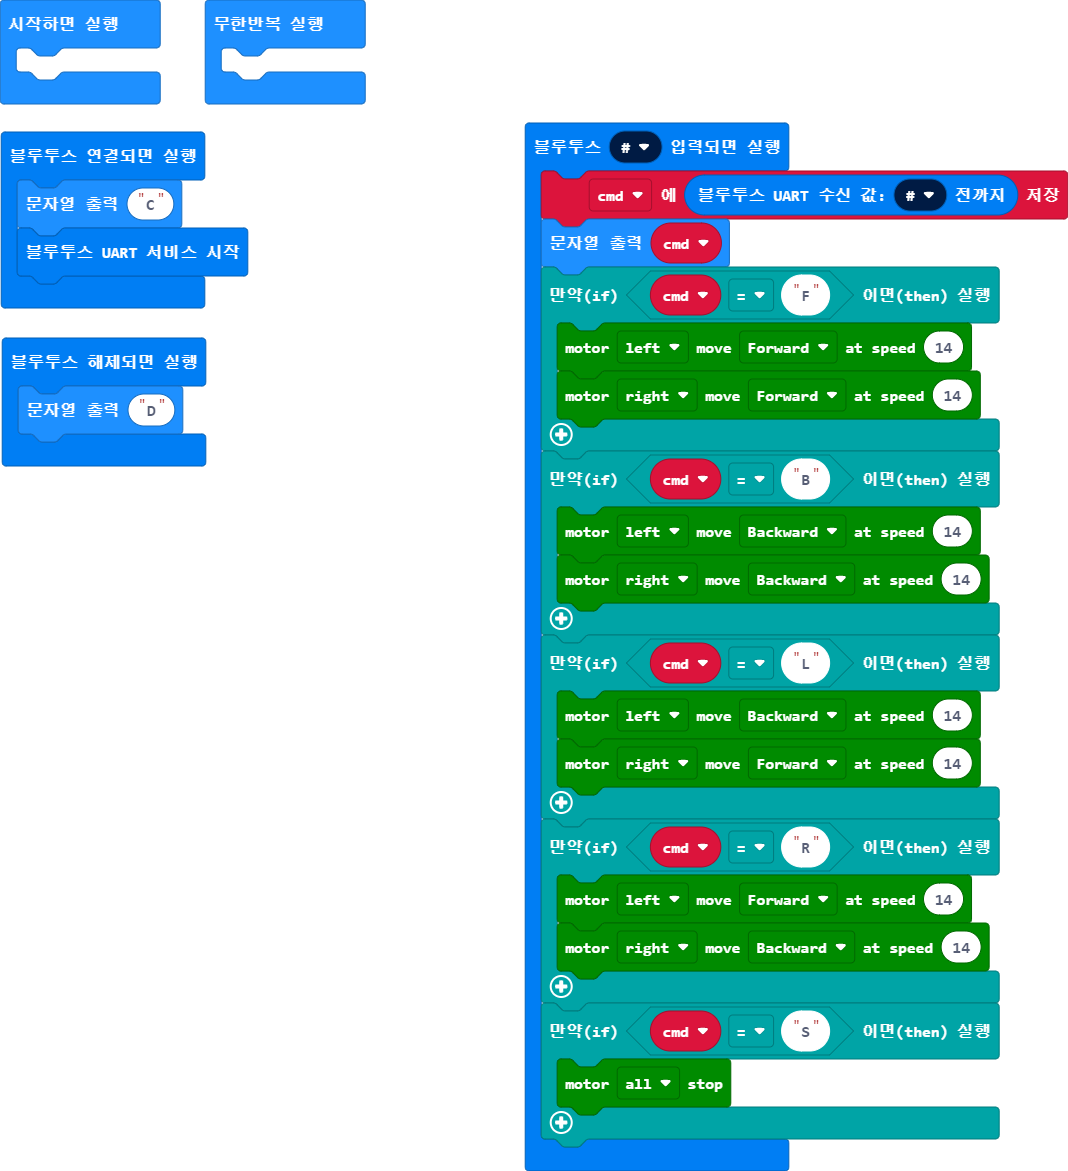
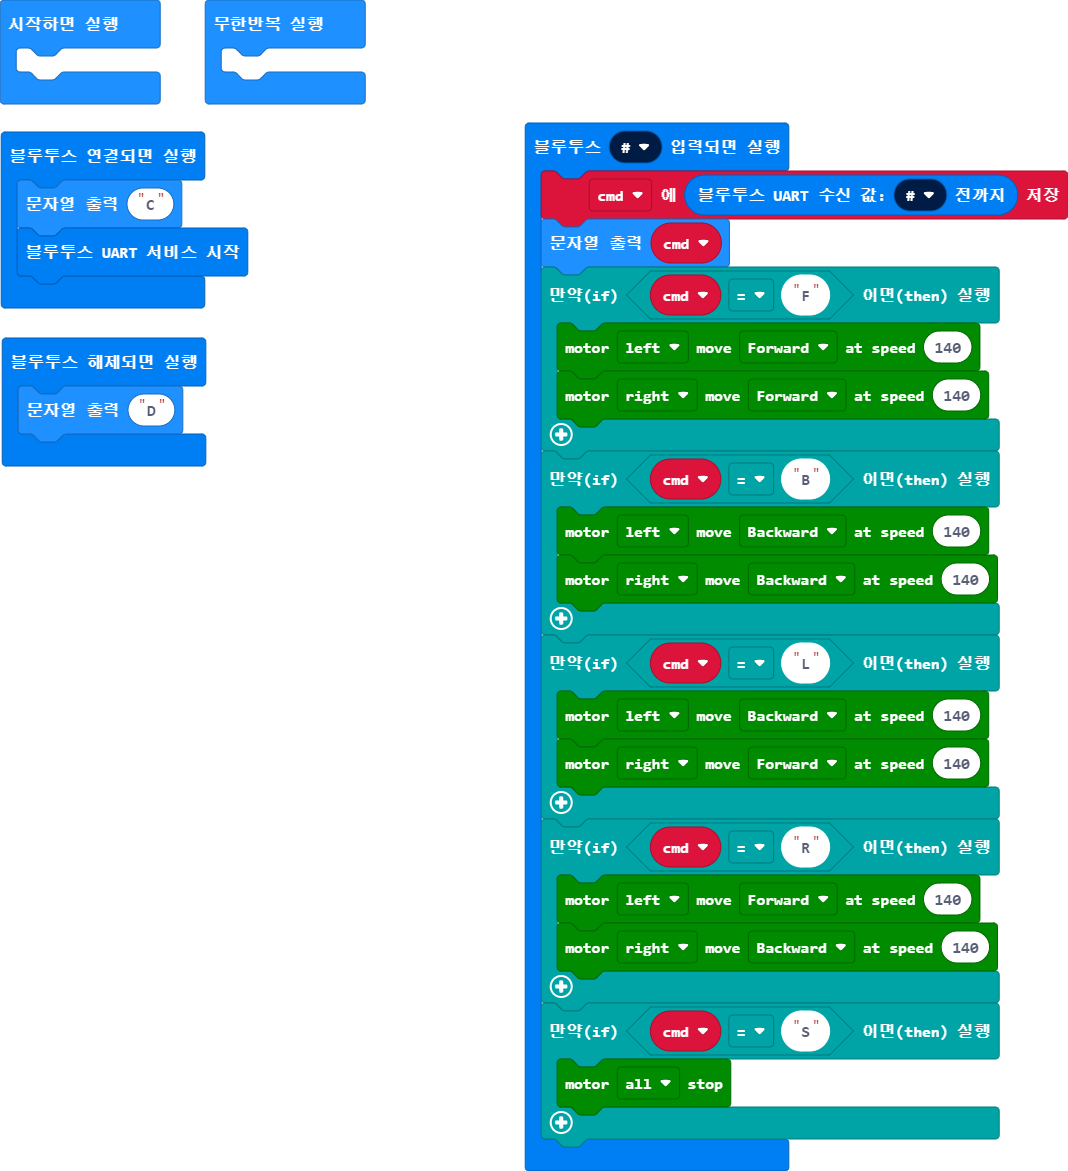
main.blocks, main.ts 업데이트하기

diff --git a/main.ts b/main.ts
@@ -10,20 +10,20 @@ bluetooth.onUartDataReceived(serial.delimiters(Delimiters.Hash), function () {
     cmd = bluetooth.uartReadUntil(serial.delimiters(Delimiters.Hash))
     basic.showString(cmd)
     if (cmd == "F") {
-        maqueen.motorRun(maqueen.Motors.M1, maqueen.Dir.CW, 14)
-        maqueen.motorRun(maqueen.Motors.M2, maqueen.Dir.CW, 14)
+        maqueen.motorRun(maqueen.Motors.M1, maqueen.Dir.CW, 140)
+        maqueen.motorRun(maqueen.Motors.M2, maqueen.Dir.CW, 140)
     }
     if (cmd == "B") {
-        maqueen.motorRun(maqueen.Motors.M1, maqueen.Dir.CCW, 14)
-        maqueen.motorRun(maqueen.Motors.M2, maqueen.Dir.CCW, 14)
+        maqueen.motorRun(maqueen.Motors.M1, maqueen.Dir.CCW, 140)
+        maqueen.motorRun(maqueen.Motors.M2, maqueen.Dir.CCW, 140)
     }
     if (cmd == "L") {
-        maqueen.motorRun(maqueen.Motors.M1, maqueen.Dir.CCW, 14)
-        maqueen.motorRun(maqueen.Motors.M2, maqueen.Dir.CW, 14)
+        maqueen.motorRun(maqueen.Motors.M1, maqueen.Dir.CCW, 140)
+        maqueen.motorRun(maqueen.Motors.M2, maqueen.Dir.CW, 140)
     }
     if (cmd == "R") {
-        maqueen.motorRun(maqueen.Motors.M1, maqueen.Dir.CW, 14)
-        maqueen.motorRun(maqueen.Motors.M2, maqueen.Dir.CCW, 14)
+        maqueen.motorRun(maqueen.Motors.M1, maqueen.Dir.CW, 140)
+        maqueen.motorRun(maqueen.Motors.M2, maqueen.Dir.CCW, 140)
     }
     if (cmd == "S") {
         maqueen.motorStop(maqueen.Motors.All)
